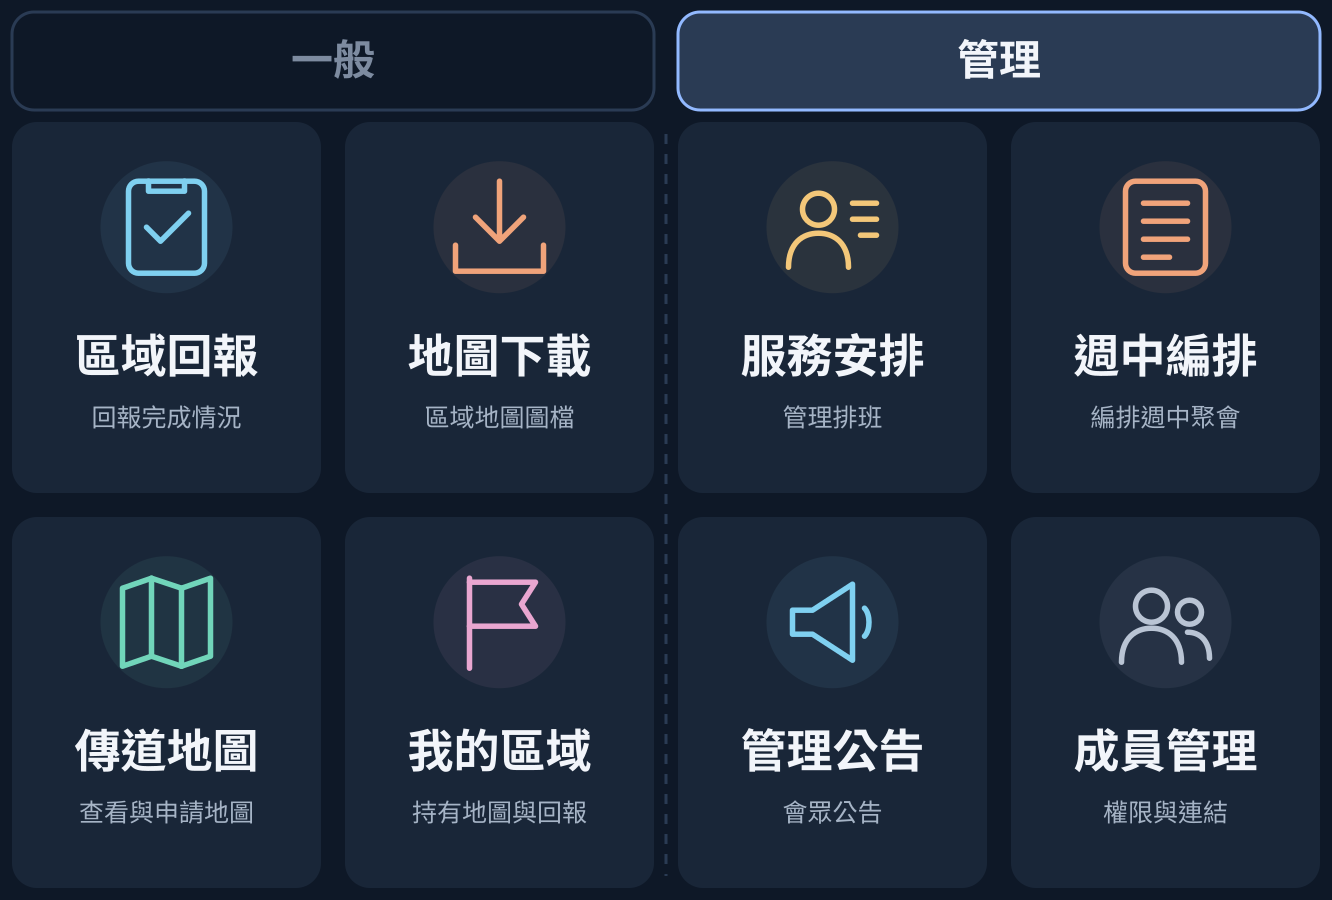
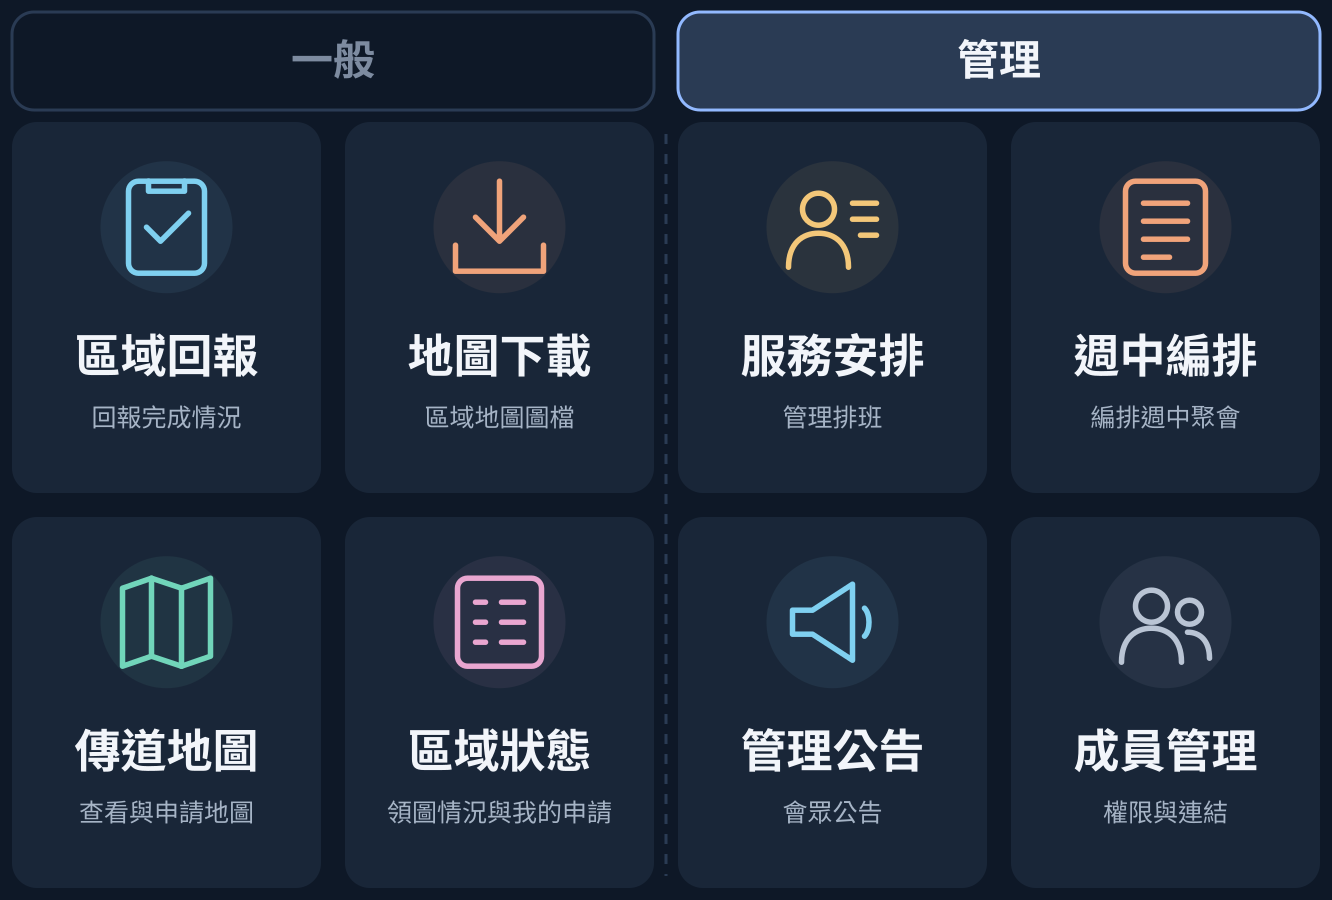
feat: LINE 管理頁改「區域狀態」格與區域狀態頁，選單升 v11（ADR-0126） (#90)
Claude-Session: https://claude.ai/code/session_01XDbjwN3A75eVUCukCexrnW

Changed region(s): [[0.277, 0.8089, 0.4617, 0.9333], [0.3386, 0.6222, 0.4309, 0.7467]]

diff --git a/src/app/territory-status/page.tsx b/src/app/territory-status/page.tsx
@@ -1,0 +1,97 @@
+'use client'
+import { useCallback, useEffect, useMemo, useState } from 'react'
+import { ArrowRight, RefreshCw } from 'lucide-react'
+import DashboardLayout from '../../components/layout/DashboardLayout'
+import { allocationLabel } from '../../lib/allocation'
+
+// 區域狀態（ADR-0126）：LINE 管理頁「區域狀態」格。上方是自己的領圖申請，下方是目前誰領著哪些地圖。
+type Area = { id: string; name: string; mapId: string | null; sheetNo: number | null; mapAreaId: number | null; dispatchedAt: string | null }
+type Group = { memberId: string; memberName: string; count: number; areas: Area[] }
+type Request = { id: string; memberId: string; status: string; createdAt: string; area: Omit<Area, 'id' | 'dispatchedAt'> }
+const statusStyle: Record<string, [string, string]> = {
+  pending: ['待審核', 'border-amber-300/40 text-amber-200'], approved: ['已核准', 'border-emerald-300/40 text-emerald-300'],
+  rejected: ['已拒絕', 'border-red-300/40 text-red-200'], cancelled: ['已取消', 'border-white/15 text-mc-text/60'],
+}
+const RECENT = 5
+const districts = ['nanzih', 'chiaotou', 'tzuguan']
+// 依楠梓、橋頭、梓官，再依號碼排。
+const mapOrder = (a: Area) => { const d = districts.indexOf(a.mapId || ''); return (d < 0 ? 9 : d) * 10000 + (a.sheetNo ?? a.mapAreaId ?? 9999) }
+const taipeiDate = (iso: string) => new Intl.DateTimeFormat('sv-SE', { timeZone: 'Asia/Taipei' }).format(new Date(iso))
+function heldDays(iso: string | null) {
+  if (!iso) return null
+  const t = new Date(iso).getTime()
+  return Number.isNaN(t) ? null : Math.max(0, Math.floor((Date.now() - t) / 86400000))
+}
+const daysTone = (days: number | null) => days === null ? 'text-blue-300' : days >= 60 ? 'text-red-300' : days >= 30 ? 'text-amber-200' : 'text-mc-text/60'
+
+export default function TerritoryStatusPage() {
+  const [me, setMe] = useState<string | null>(null)
+  const [groups, setGroups] = useState<Group[] | null>(null)
+  const [requests, setRequests] = useState<Request[] | null>(null)
+  const [error, setError] = useState('')
+  const [loading, setLoading] = useState(true)
+  const [q, setQ] = useState('')
+  const load = useCallback(async () => {
+    setLoading(true); setError('')
+    try {
+      const read = async (url: string) => {
+        const res = await fetch(url, { cache: 'no-store' })
+        const data = await res.json().catch(() => ({}))
+        if (!res.ok) throw new Error(data.error || '讀取失敗，請確認登入狀態')
+        return data
+      }
+      const [user, dispatched, mine] = await Promise.all([read('/api/me'), read('/api/areas/dispatched'), read('/api/map-requests')])
+      setMe(user.id); setGroups(dispatched.groups); setRequests(mine.requests)
+    } catch (e) { setError(e instanceof Error ? e.message : '讀取失敗') }
+    finally { setLoading(false) }
+  }, [])
+  useEffect(() => { void load() }, [load])
+
+  // 管理者的 /api/map-requests 會回傳全部人的申請，這裡只看自己的。
+  const own = useMemo(() => (requests ?? []).filter(r => r.memberId === me), [requests, me])
+  const pending = own.filter(r => r.status === 'pending')
+  const recent = own.filter(r => r.status !== 'pending').slice(0, RECENT)
+  const holders = useMemo(() => {
+    const needle = q.trim()
+    const list = (groups ?? []).map(g => ({ ...g, areas: [...g.areas].sort((a, b) => mapOrder(a) - mapOrder(b)) }))
+      .filter(g => !needle || g.memberName.includes(needle) || g.areas.some(a => allocationLabel(a).includes(needle)))
+    return [...list.filter(g => g.memberId === me), ...list.filter(g => g.memberId !== me)]
+  }, [groups, me, q])
+  const total = (groups ?? []).reduce((sum, g) => sum + g.count, 0)
+
+  return <DashboardLayout><div className="mx-auto max-w-3xl space-y-6 p-4 pb-10 text-mc-text md:p-8">
+    <header className="flex flex-wrap items-center justify-between gap-3 border-b border-white/10 pb-4">
+      <h1 className="text-2xl font-semibold tracking-tight">區域狀態</h1>
+      <button type="button" onClick={() => void load()} disabled={loading} className="inline-flex min-h-11 items-center gap-1.5 rounded-lg border border-white/10 px-3 text-sm disabled:opacity-40"><RefreshCw size={15} aria-hidden="true" className={loading ? 'motion-safe:animate-spin' : ''} />重新整理</button>
+    </header>
+    {error && <div role="alert" className="rounded-xl bg-red-400/10 p-4 text-sm text-red-200">{error}</div>}
+    {loading && !groups && <div role="status" className="space-y-3"><span className="text-sm text-mc-text/70">正在載入…</span><div aria-hidden="true" className="h-40 rounded-xl bg-mc-card motion-safe:animate-pulse" /></div>}
+
+    {requests && <section aria-labelledby="my-requests" className="space-y-3">
+      <div className="flex flex-wrap items-baseline justify-between gap-2">
+        <h2 id="my-requests" className="text-lg font-semibold">我的申請 {pending.length > 0 && <span className="ml-1 text-sm font-normal text-amber-200">{pending.length} 張待審</span>}</h2>
+        <a href="/area-status" className="inline-flex min-h-11 items-center gap-1.5 text-sm text-blue-200">到傳道地圖申請<ArrowRight size={15} aria-hidden="true" /></a>
+      </div>
+      {!pending.length && !recent.length ? <p className="rounded-xl bg-mc-card p-4 text-sm text-mc-text/70">目前沒有申請紀錄</p>
+        : <ul className="divide-y divide-white/10 rounded-xl bg-mc-card px-4">{[...pending, ...recent].map(r => {
+          const [label, tone] = statusStyle[r.status] ?? [r.status, 'border-white/15']
+          return <li key={r.id} className="flex min-h-14 items-center gap-3 py-2"><span className="min-w-0 flex-1 font-medium">{allocationLabel(r.area)}</span><time className="text-sm tabular-nums text-mc-text/60">{taipeiDate(r.createdAt)}</time><span className={`shrink-0 rounded-full border px-2.5 py-0.5 text-xs ${tone}`}>{label}</span></li>
+        })}</ul>}
+      {own.length > 0 && <a href="/map-requests" className="inline-flex min-h-11 items-center text-sm text-mc-text/70 underline underline-offset-4">{pending.length ? '取消申請或查看全部紀錄' : '查看全部申請紀錄'}</a>}
+    </section>}
+
+    {groups && <section aria-labelledby="holders" className="space-y-3">
+      <div className="flex flex-wrap items-baseline justify-between gap-2">
+        <h2 id="holders" className="text-lg font-semibold">目前領圖</h2>
+        <span className="text-sm text-mc-text/70">{groups.length} 人 · {total} 張</span>
+      </div>
+      <input type="search" value={q} onChange={e => setQ(e.target.value)} placeholder="搜尋人名或地圖號碼" aria-label="搜尋人名或地圖號碼" className="min-h-11 w-full rounded-lg border border-white/10 bg-mc-card px-3 text-sm placeholder:text-mc-text/40" />
+      {!holders.length ? <p className="rounded-xl bg-mc-card p-4 text-sm text-mc-text/70">{q.trim() ? '找不到符合的人或地圖' : '目前沒有人領著地圖'}</p>
+        : <ul className="divide-y divide-white/10 rounded-xl bg-mc-card px-4">{holders.map(g => <li key={g.memberId} className="py-3">
+          <div className="flex items-baseline justify-between gap-2"><span className="font-medium">{g.memberName}{g.memberId === me && <span className="ml-2 rounded bg-blue-400/15 px-1.5 py-0.5 text-xs text-blue-200">我</span>}</span><span className="text-sm tabular-nums text-mc-text/60">{g.count} 張</span></div>
+          <ul className="mt-2 flex flex-wrap gap-1.5">{g.areas.map(a => { const days = heldDays(a.dispatchedAt); return <li key={a.id} className="rounded-lg bg-white/5 px-2.5 py-1 text-sm">{allocationLabel(a)}<span className={`ml-1.5 text-xs tabular-nums ${daysTone(days)}`}>{days === null ? '日期待補' : `${days} 天`}</span></li> })}</ul>
+        </li>)}</ul>}
+      <p className="text-xs text-mc-text/60">天數是從領取日算起；30 天以上黃色，60 天以上紅色。</p>
+    </section>}
+  </div></DashboardLayout>
+}

diff --git a/src/lib/line-rich-menu.ts b/src/lib/line-rich-menu.ts
@@ -12,9 +12,9 @@ export type MenuKey = 'sister' | 'brother-general' | 'brother-manage' | 'admin-g
 export const menuKeys: MenuKey[] = ['sister', 'brother-general', 'brother-manage', 'admin-general', 'admin-manage']
 const tabbedKeys = menuKeys.filter(key => key !== 'sister') as Exclude<MenuKey, 'sister'>[]
 const liffId = configuredLiffId()
-const stateKey = (key: MenuKey) => liffId ? `line_rich_menu_v10_${key}_liff_${liffId}` : `line_rich_menu_v10_${key}`
+const stateKey = (key: MenuKey) => liffId ? `line_rich_menu_v11_${key}_liff_${liffId}` : `line_rich_menu_v11_${key}`
 // Alias ids are per channel: [a-z0-9_-], at most 32 characters.
-export const aliasId = (key: MenuKey) => `cms-v10-${key}`
+export const aliasId = (key: MenuKey) => `cms-v11-${key}`
 const menuUrl = (view: string) => liffId ? `https://liff.line.me/${liffId}/?view=${view}` : `${botSite}${liffDestination(view)}`
 const lockKey = 'line_rich_menu_publish_lock'
 const api = 'https://api.line.me/v2/bot'
@@ -23,7 +23,7 @@ const uri = (view: string) => ({ type: 'uri' as const, uri: menuUrl(view) })
 const tiles: Record<string, { type: 'uri'; uri: string } | { type: 'message'; text: string }> = {
   publicTalks: uri('public-talks'), midweekMeeting: uri('midweek-meeting'), announcementsView: uri('announcements'), groups: uri('ministry-groups'),
   meetingPoints: uri('meeting-points'), serviceRoster: uri('service-roster'), dashboard: uri('dashboard'), assignments: { type: 'message', text: '我的委派' }, territory: uri('territory'),
-  report: uri('report'), mapDownload: uri('map-images'), myAreas: uri('maps'),
+  report: uri('report'), mapDownload: uri('map-images'), territoryStatus: uri('territory-status'),
   roster: uri('roster'), midweek: uri('midweek'), announcements: uri('manage-announcements'), members: uri('members'),
 }
 // Same rows and sizes as scripts/create-line-menu.cjs, which draws the images.
@@ -31,9 +31,9 @@ const general = [['publicTalks', 'midweekMeeting', 'announcementsView', 'groups'
 const layouts: Record<MenuKey, { width: number; height: number; label: string; tab: 'general' | 'manage' | null; rows: string[][] }> = {
   sister: { width: 1332, height: 674, label: '一般', tab: null, rows: general },
   'brother-general': { width: 1332, height: 900, label: '弟兄一般', tab: 'general', rows: general },
-  'brother-manage': { width: 1332, height: 900, label: '弟兄管理', tab: 'manage', rows: [['report', 'mapDownload'], ['territory', 'myAreas']] },
+  'brother-manage': { width: 1332, height: 900, label: '弟兄管理', tab: 'manage', rows: [['report', 'mapDownload'], ['territory', 'territoryStatus']] },
   'admin-general': { width: 1332, height: 900, label: '管理者一般', tab: 'general', rows: general },
-  'admin-manage': { width: 1332, height: 900, label: '管理者管理', tab: 'manage', rows: [['report', 'mapDownload', 'roster', 'midweek'], ['territory', 'myAreas', 'announcements', 'members']] },
+  'admin-manage': { width: 1332, height: 900, label: '管理者管理', tab: 'manage', rows: [['report', 'mapDownload', 'roster', 'midweek'], ['territory', 'territoryStatus', 'announcements', 'members']] },
 }
 const BAR = 110
 function definition(key: MenuKey) {
@@ -46,7 +46,7 @@ function definition(key: MenuKey) {
   })) : []
   return {
     size: { width, height }, selected: true,
-    name: `楠梓會眾${label}選單 v10`, chatBarText: '開啟功能選單',
+    name: `楠梓會眾${label}選單 v11`, chatBarText: '開啟功能選單',
     areas: [...tabAreas, ...rows.flatMap((keys, row) => {
       const cell = Math.floor(width / keys.length), y = top + row * rowH
       return keys.map((name, i) => ({

diff --git a/src/lib/liff-settings.ts b/src/lib/liff-settings.ts
@@ -7,7 +7,7 @@ export function configuredLiffId(): string | null {
 // LINE 選單開啟的頁面（ADR-0115）；其餘未知的 view 一律回看板。
 const viewPages: Record<string, string> = {
   bulletin: '/bulletin', assignments: '/dashboard/assignments/service', territory: '/area-status',
-  report: '/bulletin/territory-report', 'map-images': '/map-images', requests: '/map-requests',
+  report: '/bulletin/territory-report', 'map-images': '/map-images', requests: '/map-requests', 'territory-status': '/territory-status',
   roster: '/service-roster/manage', midweek: '/midweek/manage', 'manage-announcements': '/bulletin/announcements#manage-announcements', members: '/members',
   'public-talks': '/bulletin/public-talks', 'midweek-meeting': '/bulletin/midweek-meeting', announcements: '/bulletin/announcements',
   'ministry-groups': '/bulletin/ministry-groups', 'meeting-points': '/bulletin/meeting-points', 'service-roster': '/bulletin/service-roster',

diff --git a/src/middleware.ts b/src/middleware.ts
@@ -10,6 +10,7 @@ const PROTECTED_PAGE_PREFIXES = [
   '/map-requests',
   '/assignments',
   '/active-assignments',
+  '/territory-status',
   '/members',
   '/reports',
   '/schedules',
@@ -32,5 +33,5 @@ export async function middleware(request: NextRequest) {
 }
 
 export const config = {
-  matcher: ['/midweek/:path*', '/service-roster/:path*', '/map-requests/:path*', '/area-status/:path*', '/dashboard/:path*', '/areas/:path*', '/members/:path*', '/reports/:path*', '/schedules/:path*', '/statistics/:path*', '/map/:path*', '/active-assignments/:path*', '/assignments/:path*'],
+  matcher: ['/midweek/:path*', '/service-roster/:path*', '/map-requests/:path*', '/area-status/:path*', '/dashboard/:path*', '/areas/:path*', '/members/:path*', '/reports/:path*', '/schedules/:path*', '/statistics/:path*', '/map/:path*', '/active-assignments/:path*', '/assignments/:path*', '/territory-status/:path*'],
 }

diff --git a/src/app/territory-status/layout.tsx b/src/app/territory-status/layout.tsx
@@ -1,0 +1,5 @@
+export const metadata = { title: '區域狀態' }
+
+export default function Layout({ children }: { children: React.ReactNode }) {
+  return children
+}

diff --git a/docs/adr/0126-territory-status-page.md b/docs/adr/0126-territory-status-page.md
@@ -1,0 +1,16 @@
+# ADR-0126：LINE 管理頁「區域狀態」格與區域狀態頁
+
+2026-11-14，已接受。取代 ADR-0125 的「我的區域」選單格。
+
+## 背景
+
+ADR-0125 把「領圖申請」格改成「我的區域」，開看板的我的地圖。使用者更正：這格應叫「區域狀態」，要看到現在哪些人領著地圖、各領哪些地圖，以及自己申請地圖的狀態。
+
+## 決策
+
+- 新頁 `/territory-status`「區域狀態」（需登入，所有成員可看；middleware 兩份清單都加上）。
+  - 上段「我的申請」：自己的待審申請全部列出，已核准／已拒絕／已取消只列最近 5 筆；有申請時連到 `/map-requests` 取消或看全部紀錄，另有「到傳道地圖申請」。管理者的申請 API 會回全部人的申請，頁面只取自己的。
+  - 下段「目前領圖」：依人列出持有的地圖與領取天數（30 天以上黃、60 天以上紅、沒有領取日顯示「日期待補」），自己排第一並標「我」，可搜尋人名或號碼。資料沿用 `/api/areas/dispatched`（使用中地圖頁同一來源），不新增 API。
+- LINE 弟兄與管理者管理頁左下第二格改為「區域狀態」（副標「領圖情況與我的申請」），LIFF view `territory-status`。
+- 狀態鍵與 alias 升為 v11，部署後需在「我的看板→管理工具→底部圖文選單」再按一次「發布至 LINE」。
+- 側欄不加新項目（介面精簡）；使用中地圖頁（管理用，含收回與 LINE 提醒）不變。

diff --git a/CONTEXT.md b/CONTEXT.md
@@ -1,5 +1,7 @@
 # 地圖分配系統 — 領域詞彙表
 
+- 2026-11-14：使用者更正：那格不叫「我的區域」，改叫「區域狀態」，新頁 `/territory-status` 列出現在哪些人領著地圖、各領哪些（含領了幾天），以及自己申請地圖的狀態（待審全部列出、已處理只列最近 5 筆）。所有登入成員都能看。選單升 v11 需重新發布。詳見 ADR-0126。
+
 - 2026-11-14：使用者覺得 LINE 管理頁「傳道地圖」和「領圖申請」重複。「領圖申請」格改成「我的區域」，開我的看板的「我的地圖」段落（持有哪幾張、領了幾天、提交回報）；申請領圖本來就在傳道地圖裡，傳道地圖頁另外加「領圖申請」入口（電腦版在頁首，手機版在未選地圖時的說明下方）查看申請進度或審核。管理者管理頁同步更換。選單升 v10 需重新發布。詳見 ADR-0125。
 
 - 2026-11-14：使用者要求刪除「手機雙指縮放、電腦 Ctrl＋滾輪縮放」這類操作提示文字（PDF 閱讀器、地圖下載全圖檢視、傳道小地圖、週中節目表無障礙標籤），縮放功能保留。詳見 ADR-0124。

diff --git a/docs/adr/0125-line-menu-my-areas.md b/docs/adr/0125-line-menu-my-areas.md
@@ -1,6 +1,6 @@
 # ADR-0125：LINE 管理頁領圖申請格改為我的區域
 
-2026-11-14，已接受。修訂 ADR-0122 的管理頁版面。
+2026-11-14，已接受。修訂 ADR-0122 的管理頁版面。選單格「我的區域」已被 ADR-0126 的「區域狀態」取代；傳道地圖的領圖申請入口仍有效。
 
 ## 背景
 
